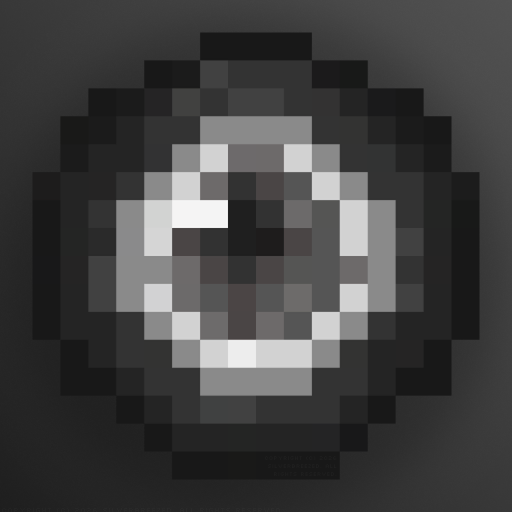
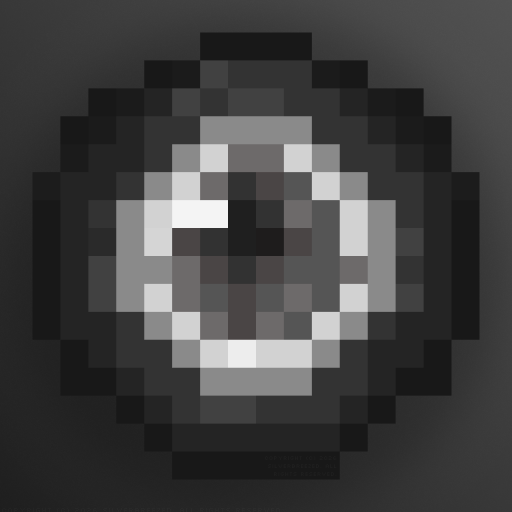
Fix asset issue in Mod Menu

Changed region(s): [[0.5, 0.75, 0.5938, 0.7812], [0.4375, 0.6562, 0.5, 0.6875]]

diff --git a/common/src/main/java/org/silverbreezed/whitehole/enums/RecoveryReason.java b/common/src/main/java/org/silverbreezed/whitehole/enums/RecoveryReason.java
@@ -1,8 +1,6 @@
 package org.silverbreezed.whitehole.enums;
 
 /**
- * Identifies why a {@link RecoverySnapshot} was captured.
- *
  * New capture sources (e.g. despawn recovery) should add a new constant here instead
  * of introducing a parallel storage/cache pathway alongside ItemSnapshotManager.
  */
